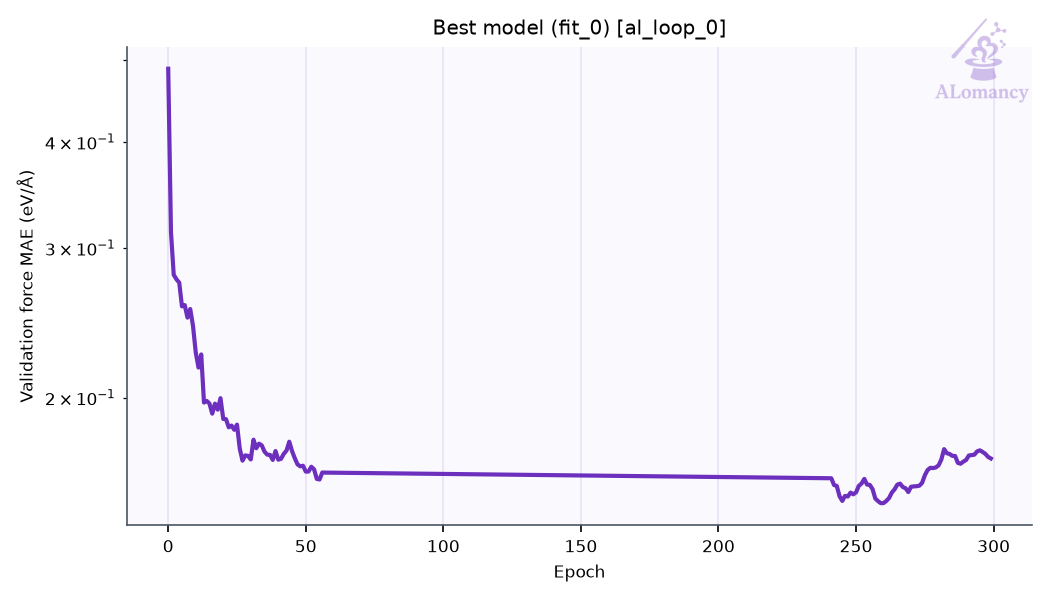
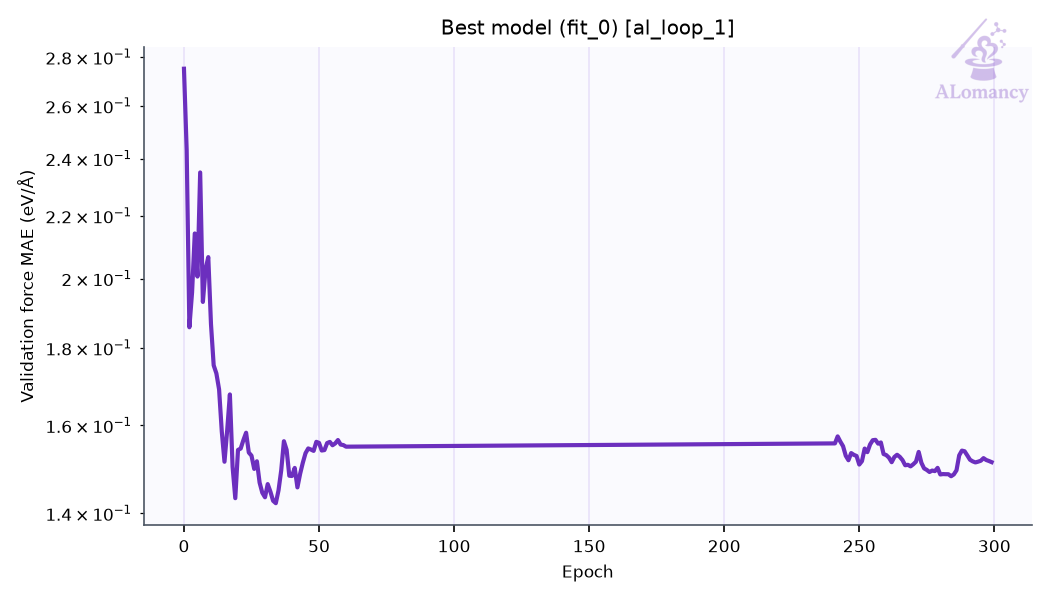
update viper_omat_ezga_committee, viper_omat_ezga_novelty, viper_omat_ezga_random, viper_omat_md_committee, viper_omat_md_novelty, viper_omat_md_random

diff --git a/alomancy/viper_omat_ezga_novelty/report/report.md b/alomancy/viper_omat_ezga_novelty/report/report.md
@@ -1,31 +1,32 @@
-# ALomancy report: al_loop_0
+# ALomancy report: al_loop_1
 
-Workflow `novelty_selection` · trainer `mace` · generator `ezga` · evaluator `qe` · generated 2026-11-20T05:03:19
+Workflow `novelty_selection` · trainer `mace` · generator `ezga` · evaluator `qe` · generated 2026-11-23T08:05:42
 
-**Status:** 💡 1 info · 4 warning(s) logged
+**Status:** 💡 1 info · 5 warning(s) logged
 
 ## Headline
 
-| | previous | loop 0 | change |
+| | loop 0 | loop 1 | change |
 |---|---:|---:|---:|
-| Best model test force MAE (eV/Å) | n/a | 0.0724 |  |
-| Best model test energy MAE (meV/atom) | n/a | 33.6 |  |
-| Training structures | n/a | 447 |  |
-| Test structures | n/a | 28 |  |
-| New structures this loop | n/a | 49 |  |
-| Warnings / errors logged | n/a | 4 |  |
+| Best model test force MAE (eV/Å) | 0.0724 | 0.125 | +73% |
+| Best model test energy MAE (meV/atom) | 33.6 | 55.4 | +65% |
+| Training structures | 447 | 532 | +19% |
+| Test structures | 28 | 38 | +36% |
+| New structures this loop | 49 | 48 | -2% |
+| Warnings / errors logged | 4 | 5 | +25% |
 
 Best model: fit_0 of 1 (chosen on the `valid` split).
 
 ## Issues & suggestions
 
-- 💡 **queue_dominated**: generate_structures spent 99% of its time (15.8 h) queued. Raise max_num_of_concurrent_jobs in the HPC profile or use a less busy partition.
+- 💡 **queue_dominated**: training_plots spent 99% of its time (22.9 h) queued. Raise max_num_of_concurrent_jobs in the HPC profile or use a less busy partition.
 
 ## Trends
 
 | loop | test F-MAE (eV/Å) | train | new | DFT returned | GO converged | new redundant | warnings |
 |---:|---:|---:|---:|---:|---:|---:|---:|
 | 0 | 0.0724 | 447 | 49 | 49/50 | 100% | 0 | 4 |
+| 1 | 0.125 | 532 | 48 | 48/50 | 98% | 0 | 5 |
 
 ![Best-model MAE per loop](plots/training_al_loop_mae_plot.png)
 
@@ -35,7 +36,7 @@ Best model: fit_0 of 1 (chosen on the `valid` split).
 
 ![Best model parity](plots/best_model_parity.png)
 
-Median relative error: train energy 1.0%, force 6.3%; test energy 0.3%, force 16.7%.
+Median relative error: train energy 0.8%, force 10.8%; test energy 0.6%, force 29.6%.
 Energies with |formation energy| < 0.05 eV/atom and atoms with |F| < 0.1 eV/Å are left out; force error is |ΔF|/|F| per atom.
 
 ![Best model percentage error](plots/best_model_percent_error.png)
@@ -51,11 +52,11 @@ Energies with |formation energy| < 0.05 eV/atom and atoms with |F| < 0.1 eV/Å a
 | init_rattle | 41 | 1 | 232 | 274 |
 | init_stretch_compress | 126 | 13 | 129 | 268 |
 | init_trimer | 79 | 0 | 0 | 79 |
-| novelty_selection | 88 | 10 | 0 | 98 |
-| **all** | **447** | **28** | **361** | **836** |
+| novelty_selection | 173 | 20 | 0 | 193 |
+| **all** | **532** | **38** | **361** | **931** |
 
-- Redundancy removal: 0 structure(s) flagged in total, 0 of this loop's 49 new.
-- DFT geometry-optimisation starting frames: 49 stored this loop, 49 used (the rest excluded by the train/test filters or redundancy removal).
+- Redundancy removal: 0 structure(s) flagged in total, 0 of this loop's 48 new.
+- DFT geometry-optimisation starting frames: 47 stored this loop, 47 used (the rest excluded by the train/test filters or redundancy removal).
 - Quality filters: high_force: 361, formation_energy: 17.
 
 ![Training set composition](plots/training_set_composition.png)
@@ -64,17 +65,17 @@ Energies with |formation energy| < 0.05 eV/atom and atoms with |F| < 0.1 eV/Å a
 
 Redundancy removal flags near-duplicate training structures, so the model isn't trained on many copies of the same geometry. Each structure is described by `char_vec_128`: all of its interatomic distances, sorted and resampled to 128 values (`global_descriptor/atomic_distance_descriptor.make_char_vec`). Two structures count as duplicates when the Euclidean distance between their descriptors is below a tolerance: in database order, each structure still in the training set is kept unless it is within the tolerance of one already kept. The plot sweeps that tolerance and counts how many structures are kept at each value. **We are looking for plateaus** (shaded): ranges where the count doesn't change, so the result doesn't depend on the exact tolerance. The orange line (right axis) is the number of structures removed between consecutive tolerance steps, the gradient of the count: zero on a plateau. The start of the lowest plateau at least `general.redundancy_kwargs.min_plateau_width` of the swept range wide is used (dashed line). Nothing is flagged when no plateau qualifies, or when it would flag more than `max_flagged_fraction` of the structures; `general.redundancy_kwargs.tolerance` sets the tolerance directly.
 
-- This loop: 162 structures probed; the lowest plateau would flag more than 50% of them, so nothing was flagged.
+- This loop: 247 structures probed; the lowest plateau would flag more than 50% of them, so nothing was flagged.
 
 ![Redundancy tolerance probe](plots/redundancy_tolerance_probe.png)
 
 ## DFT
 
-- Structures: 49 returned of 50 submitted (49 relaxed, 0 single point).
-- Geometry optimisation: 49/49 reached the force ceiling (0.05 eV/Å); steps mean 21.8, median 16, max 85 of 200 allowed.
-- Average DFT time per relaxation: 13.6 min (median 10.6, max 59.9; 49 structures).
-- Largest per-atom force after DFT: median 0.04, max 0.05 eV/Å.
-- DFT phase wall-clock: 47.4 h (mean queue time 2714 min).
+- Structures: 48 returned of 50 submitted (48 relaxed, 0 single point).
+- Geometry optimisation: 47/48 reached the force ceiling (0.05 eV/Å); steps mean 27.8, median 19, max 200 of 200 allowed.
+- Average DFT time per relaxation: 11.4 min (median 7.4, max 90.5; 48 structures).
+- Largest per-atom force after DFT: median 0.04, max 3.72 eV/Å.
+- DFT phase wall-clock: 51.7 h (mean queue time 3008 min).
 
 **Structures evaluated with DFT this loop (final geometries)**
 
@@ -82,14 +83,14 @@ Redundancy removal flags near-duplicate training structures, so the model isn't 
 
 ## MLIP training: mace
 
-- Best fit (fit_0) trained for 299 epochs, stage two from epoch 240; weights kept from epoch 244.
+- Best fit (fit_0) trained for 299 epochs, stage two from epoch 240; weights kept from epoch 246.
 
 ![Best model training curve](plots/best_model_training_curve.png)
 
 ## Structure generation: EZGA
 
 - Seeds: 8, generations run: 11 (max_generations 10, population 100)
-- Structures generated: 484, taken as candidates: 484 (newest first, back to generation 0)
+- Structures generated: 603, taken as candidates: 500 (newest first, back to generation 5)
 - Mutations: mutation_rattle, mutation_random_strain, bounded_mutation_add, bounded_mutation_remove
 
 ## High-accuracy evaluation: QE
@@ -100,7 +101,7 @@ Redundancy removal flags near-duplicate training structures, so the model isn't 
 
 ## Selection: novelty
 
-- 50 of 484 candidates selected against 738 reference structure(s), tolerance 0.877 (descriptor distance).
+- 50 of 500 candidates selected against 836 reference structure(s), tolerance 0.86 (descriptor distance).
 
 ## Warnings and events
 
@@ -108,11 +109,11 @@ Redundancy removal flags near-duplicate training structures, so the model isn't 
 |---|---|---:|
 | `dft_summary` | DFT batch summary | 1 |
 | `ezga_summary` | EZGA summary | 1 |
-| `job_failed` | remote job failed | 1 |
+| `job_failed` | remote job failed | 2 |
 | `job_still_queued` | jobs still queued after their time limit (waiting on) | 50 |
-| `jobs_started` | remote jobs started | 2 |
+| `jobs_started` | remote jobs started | 3 |
+| `novelty_inexact` | novelty tolerance not exact | 1 |
 | `novelty_selected` | novelty selection | 1 |
 | `quality_filtered` | train/test quality filter passes | 2 |
 | `redundancy_cap_hit` | redundancy removal skipped (would flag too many) | 1 |
-| `ssh_auth_lost` | ssh login lost (waited for a new login) | 1 |
 | `stale_sqlite_sidecars_removed` |  | 1 |
